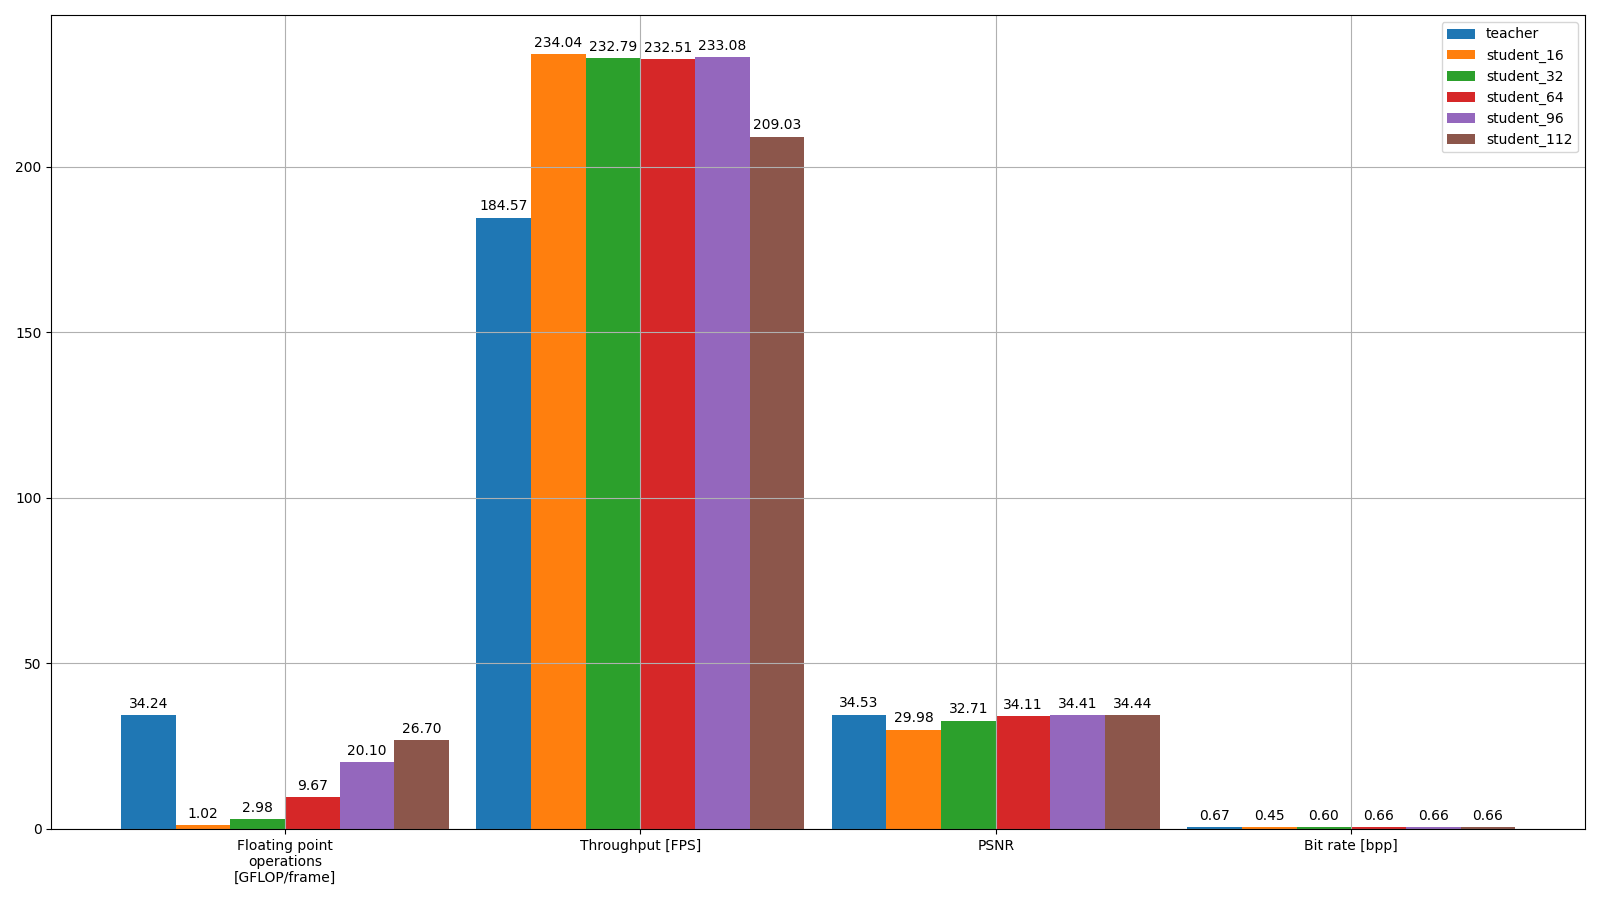
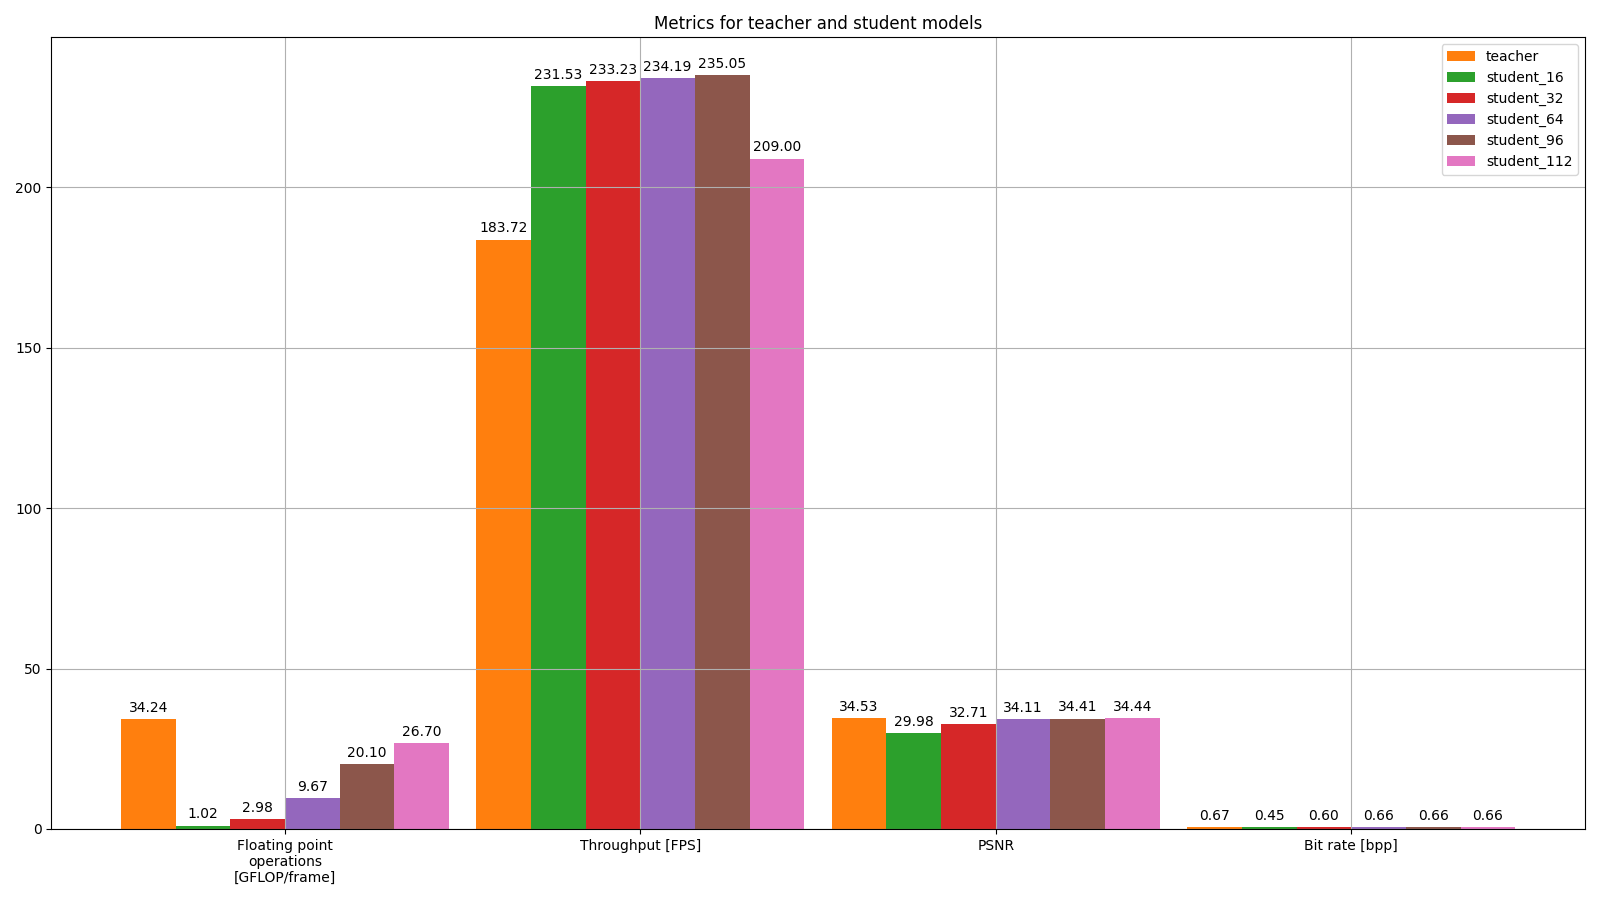
Updates: - Update README, logbook and reading_notes - Update bar graphs (proper colors)

diff --git a/private/reading_notes.md b/private/reading_notes.md
@@ -76,6 +76,15 @@ Driven by the interest of the machine learning and image processing communities 
 
 Inspired by success of autoregressive prior in generative models, the authors of ... extend their previous work (Variational Image Compression with a Scale Hyperprior [CITE]). They generalise hierarchical Gaussian Scale Mixture model to Gaussian Mixture model and add an autoregressive component. The autoregressive components captures the context of each pixel, that is to say is allows the model to find spacial dependencies in the image leading to improved image reconstruction. The authors highlight the fact that dimensionality reduction is different from compression which consists in reducing the entropy of the representation under a prior probability model shared between the sender and the receiver, not only the dimensionality. Experimental results show that the end-to-end optimisation of the model can learn the optimal bottleneck size: if the bottleneck size is large enough, the same latent value is generated and a probability of 1 is assigned for useless channels. This wastes computation but requires no additional entropy. Conversely, small sizes of bottleneck can impact rate-distortion performance. When optimised for MS-SSIM, the proposed model outperforms all conventional and NN-based methods in both PSNR and MS-SSIM (including BPG) in RD performance as well as visual results.
 
+### [Learned Image Compression with Mixed Transformer-CNN Architectures](https://arxiv.org/abs/2303.14978)
+- Most existing LIC methods are CNN or tansformer based
+- Each method has its advantage (CNN -> lcoal modeling, transformer -> non-local modeling)
+- Questions: how to fuse networks? how to achieve higher perf with suitable complexity?
+- Introduce Transformer-CNN Mix (TCM) block with controllable complexity
+- LIC model that has both local and non-local modeling abilities
+- Also introduce a channel-wise entropy model with parameter-efficient swin-transformer-based attention (SWAtten) modules by using channel squeezing (???)
+- SOTA results if not better!
+
 ## Knowledge Distillation
 
 ### [Distilling the Knowledge in a Neural Network](https://arxiv.org/abs/1503.02531)

diff --git a/README.md b/README.md
@@ -34,6 +34,7 @@ PRIM/
 - [Joint Autoregressive and Hierarchical Priors for Learned Image Compression](https://arxiv.org/abs/1809.02736)
 - [The Devil Is in the Details: Window-based Attention for Image Compression](https://arxiv.org/abs/2203.08450)
 - [A Survey on Visual Transformer](https://arxiv.org/abs/2012.12556)
+- [Learned Image Compression with Mixed Transformer-CNN Architectures](https://arxiv.org/abs/2303.14978)
 
 ### Knowledge Distillation
 - [Distilling the Knowledge in a Neural Network](https://arxiv.org/abs/1503.02531)

diff --git a/private/logbook.md b/private/logbook.md
@@ -481,5 +481,17 @@
 - Reports
 - Final presentation
 
+## 11/04/2025
+- Generate better barplots (correct colors)
+- Try to fix cluster
+
+## 14/04/2025
+- GPU cluster (error with 3090 partition only...)
+- Train ScaleHyperPrior models (image compression, pre-trained teacher quality 5, student KD with RD loss and latent loss MSE, lmbda=(0.3, 0.3, 0.4))
+  - 319228 (16)
+  - 319229 (32)
+  - 319230 (64)
+  - 319231 (96)
+  - 319233 (112)
+
 ## TODO
-- Report: replace fig by bar plots with correct colors for teacher and models
